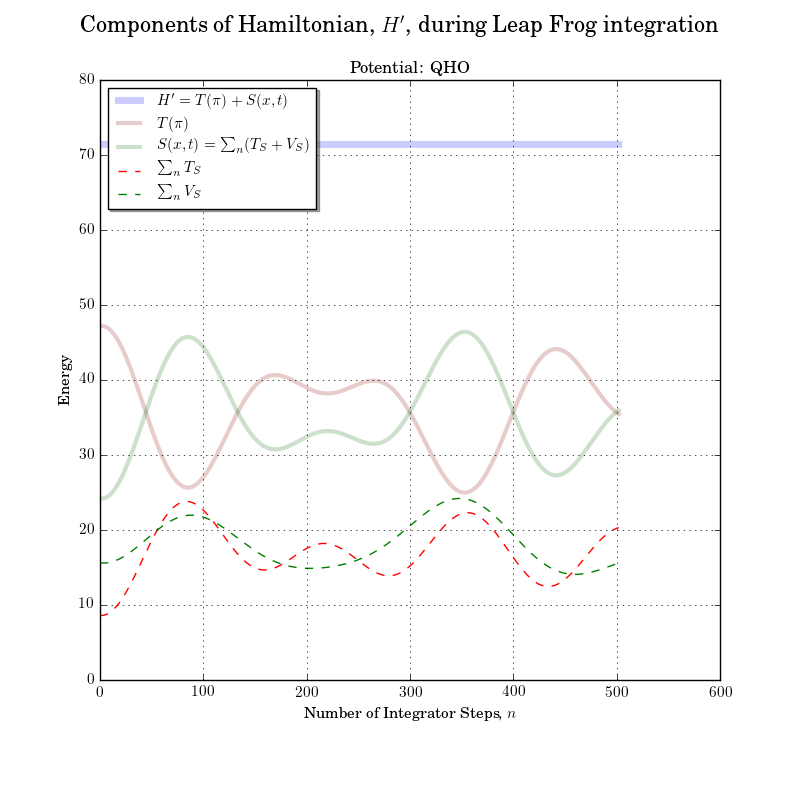
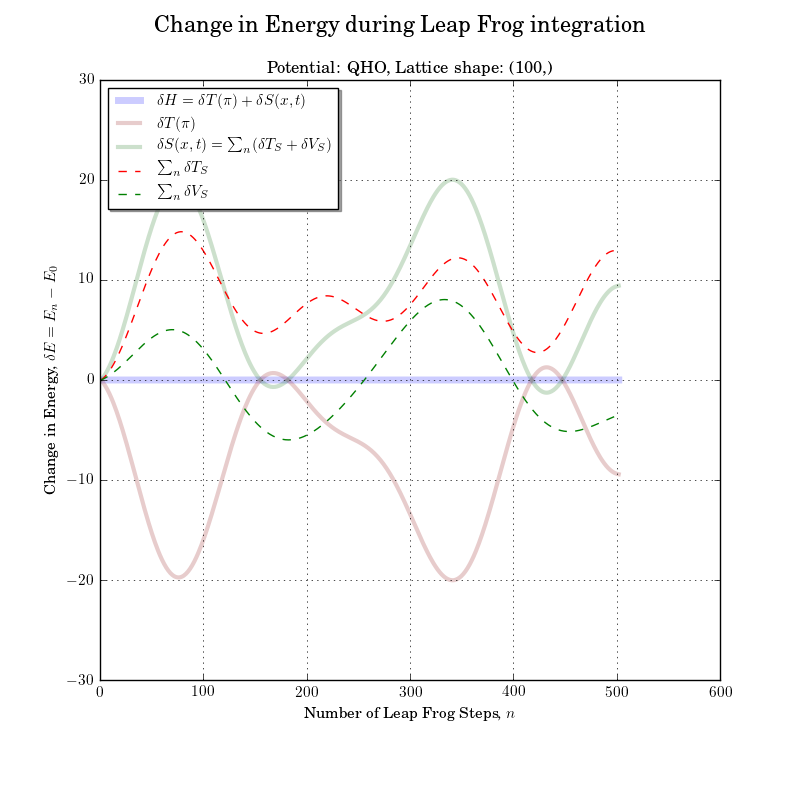
<exp{{-𝛿H}}> was never broken. Simplified routines: issue:#26, issue:#27

diff --git a/results/common/dynamics_constEn_1d.py b/results/common/dynamics_constEn_1d.py
@@ -13,7 +13,7 @@ def plot(y1, y2, subtitle, save, all_lines = False):
     
     Required Inputs
         y1 :: np.array :: conj kinetic energy array
-        y2   :: list(3 np.arrays) :: list of three items: action, k, u = zip(*y2)
+        y2   :: np.array :: shape is either (n, 3) or (n,)
         subtitle :: string :: subtitle for the plot
         save :: bool :: True saves the plot, False prints to the screen
     
@@ -30,41 +30,52 @@ def plot(y1, y2, subtitle, save, all_lines = False):
     ax =[]
     ax.append(fig.add_subplot(111))
     
-    fig.suptitle(r"Components of Hamiltonian, $H'$, during Leap Frog integration",
+    fig.suptitle(r"Change in Energy during Leap Frog integration",
         fontsize=pp.ttfont)
     
     ax[0].set_title(subtitle, fontsize=pp.ttfont-4)
     
-    ax[0].set_xlabel(r'Number of Integrator Steps, $n$')
-    ax[0].set_ylabel(r'Energy')
+    ax[0].set_xlabel(r'Number of Leap Frog Steps, $n$')
+    ax[0].set_ylabel(r'Change in Energy, $\delta E = E_n - E_0$')
     
     steps = np.linspace(0, y1.size, y1.size, True)
-    action, k, u = zip(*y2)
     
+    # check for multiple values in the potential
+    multi_pot = (y2.shape[-1] > 1)
+    if multi_pot:
+        action, k, u = zip(*y2)
+        k = np.asarray(k)
+        u = np.asarray(u)
+    else:
+        action = y2
+        
     action = np.asarray(action)
-    k = np.asarray(k)
-    u = np.asarray(u)
     
     h = ax[0].plot(steps, y1+np.asarray(action), # Full Hamiltonian
-        label=r"$H' = T(\pi) + S(x,t)$", color='blue',
+        label=r"$\delta H = \delta T(\pi) + \delta S(x,t)$", color='blue',
         linewidth=5., linestyle = '-', alpha=0.2)
     
     if all_lines:
         t = ax[0].plot(steps, np.asarray(y1), # Kinetic Energy (conjugate)
-            label=r'$T(\pi)$', color='darkred',
+            label=r'$\delta T(\pi)$', color='darkred',
             linewidth=3., linestyle='-', alpha=0.2)
         
-        s = ax[0].plot(steps, np.asarray(action), # Potential Energy (Action)
-            label=r'$S(x,t) = \sum_{n} (T_S + V_S)$', color='darkgreen',
-            linewidth=3., linestyle='-', alpha=0.2)
-        
-        t_s = ax[0].plot(steps, np.asarray(k),  # Kinetic Energy in Action
-            label=r'$\sum_{n} T_S$', color='red',
-            linewidth=1., linestyle='--', alpha=1.)
-        
-        v_s = ax[0].plot(steps, np.asarray(u),  # Potential Energy in Action
-            label=r'$\sum_{n} V_S$', color='green',
-            linewidth=1., linestyle='--', alpha=1.)
+        if multi_pot:
+            s = ax[0].plot(steps, np.asarray(action), # Potential Energy (Action)
+                label=r'$\delta S(x,t) = \sum_{n} (\delta T_S + \delta V_S)$', color='darkgreen',
+                linewidth=3., linestyle='-', alpha=0.2)
+                
+            t_s = ax[0].plot(steps, np.asarray(k),  # Kinetic Energy in Action
+                label=r'$\sum_{n} \delta T_S$', color='red',
+                linewidth=1., linestyle='--', alpha=1.)
+            
+            v_s = ax[0].plot(steps, np.asarray(u),  # Potential Energy in Action
+                label=r'$\sum_{n} \delta V_S$', color='green',
+                linewidth=1., linestyle='--', alpha=1.)
+        else:
+            s = ax[0].plot(steps, np.asarray(action), # Potential Energy (Action)
+                label=r'$\delta S(x,t) = \frac{1}{2}\delta(x^2)$', color='darkgreen',
+                linewidth=3., linestyle='-', alpha=0.2)
     
     # add legend
     ax[0].legend(loc='upper left', shadow=True, fontsize = pp.axfont)
@@ -84,14 +95,11 @@ def dynamicalEnergyChange(x0, pot, n_steps, step_size):
         step_sizes  :: float :: sample array of integrator step sizes
     """
     
-    model = Model(x0,
-        pot       = pot,
+    model = Model(x0, pot,
         n_steps   = n_steps, 
-        step_size = step_size,
-        spacing   = 1.
-        )
-    model.dynamics.save_path = True
-    model.pot.debug = True
+        step_size = step_size)
+    model.dynamics.save_path = True # saves the dynamics path
+    model.pot.debug = True          # saves all energies
     
     # initial conditions - shoudn't matter much
     p0 = model.sampler.p
@@ -116,23 +124,29 @@ def dynamicalEnergyChange(x0, pot, n_steps, step_size):
     kE_path = [model.pot.kE(i) for i in model.dynamics.p_ar]
     uE_path = [model.pot.uE(i) for i in model.dynamics.x_ar]
     
-    kins = np.asarray([kE0] + kE_path)
-    pots = [uE0] + uE_path
-
+    kins = np.asarray([kE0] + kE_path) - kE0
+    pots = np.asarray([uE0] + uE_path) - uE0
     return kins, pots 
 #
-def main(pot, file_name, save = False, n_steps   = 500, step_size = .01):
+def main(x0, pot, file_name, save = False, n_steps   = 500, step_size = .01, all_lines = True):
     """A wrapper function
     
     Required Inputs
-        pot
+        x0          :: np.array :: initial position input to the HMC algorithm
+        pot         :: potential class :: defined in hmc.potentials
+        file_name   :: string :: the final plot will be saved with a similar name if save=True
+    
     Optional Inputs
+        save :: bool :: True saves the plot, False prints to the screen
+        n_steps :: list :: LF trajectory lengths
+        step_size :: float :: Leap Frog step size
+        all_lines :: bool :: if True, plots hamiltonian as well as all its components
     """
     print 'Running Model: {}'.format(file_name)
-    kins, pots = dynamicalEnergyChange(pot, n_steps, step_size)
+    kins, pots = dynamicalEnergyChange(x0, pot, n_steps, step_size)
     print 'Finished Running Model: {}'.format(file_name)
     
-    plot(y1 = kins, y2 = pots, all_lines=True, subtitle,
+    plot(y1 = kins, y2 = pots, all_lines = all_lines,
         subtitle = r'Potential: {}, Lattice shape: {}'.format(pot.name, x0.shape),
         save = saveOrDisplay(save, file_name)
         )

diff --git a/results/dynamics_constEn_1d_H_qho.py b/results/dynamics_constEn_1d_H_qho.py
@@ -2,10 +2,10 @@
 import numpy as np
 
 from common import dynamics_constEn_1d
-from hmc.potentials import Klein_Gordon as KG
+from hmc.potentials import Quantum_Harmonic_Oscillator as QHO
 
 file_name = __file__
-pot = KG()
+pot = QHO()
 
 n, dim = 100, 1
 x0 = np.random.random((n,)*dim)
@@ -13,4 +13,4 @@ x0 = np.random.random((n,)*dim)
 
 
 if '__main__' == __name__:
-    dynamics_constEn_1d.main(x0, pot, file_name, save = True)
+    dynamics_constEn_1d.main(x0, pot, file_name, save = True, all_lines = False)

diff --git a/results/dynamics_constEn_1d_H_sho.py b/results/dynamics_constEn_1d_H_sho.py
@@ -1,0 +1,17 @@
+#!/usr/bin/env python
+import numpy as np
+
+from common import dynamics_constEn_1d
+from hmc.potentials import Simple_Harmonic_Oscillator as SHO
+
+file_name = __file__
+pot = SHO()
+
+
+
+x0 = np.asarray([[1.]])
+
+
+
+if '__main__' == __name__:
+    dynamics_constEn_1d.main(x0, pot, file_name, save = True, all_lines = False)

diff --git a/results/dynamics_constEn_1d_sho.py b/results/dynamics_constEn_1d_sho.py
@@ -1,0 +1,17 @@
+#!/usr/bin/env python
+import numpy as np
+
+from common import dynamics_constEn_1d
+from hmc.potentials import Simple_Harmonic_Oscillator as SHO
+
+file_name = __file__
+pot = SHO()
+
+
+
+x0 = np.asarray([[1.]])
+
+
+
+if '__main__' == __name__:
+    dynamics_constEn_1d.main(x0, pot, file_name, save = True, all_lines = True)

diff --git a/results/dynamics_constEn_1d_H_kg.py b/results/dynamics_constEn_1d_H_kg.py
@@ -7,10 +7,11 @@ from hmc.potentials import Klein_Gordon as KG
 file_name = __file__
 pot = KG()
 
+
 n, dim = 100, 1
 x0 = np.random.random((n,)*dim)
 
 
 
 if '__main__' == __name__:
-    dynamics_constEn_1d.main(x0, pot, file_name, save = True)
+    dynamics_constEn_1d.main(x0, pot, file_name, save = True, all_lines = False)

diff --git a/results/dynamics_constEn_1d_qho.py b/results/dynamics_constEn_1d_qho.py
@@ -1,3 +1,4 @@
+#!/usr/bin/env python
 import numpy as np
 
 from common import dynamics_constEn_1d
